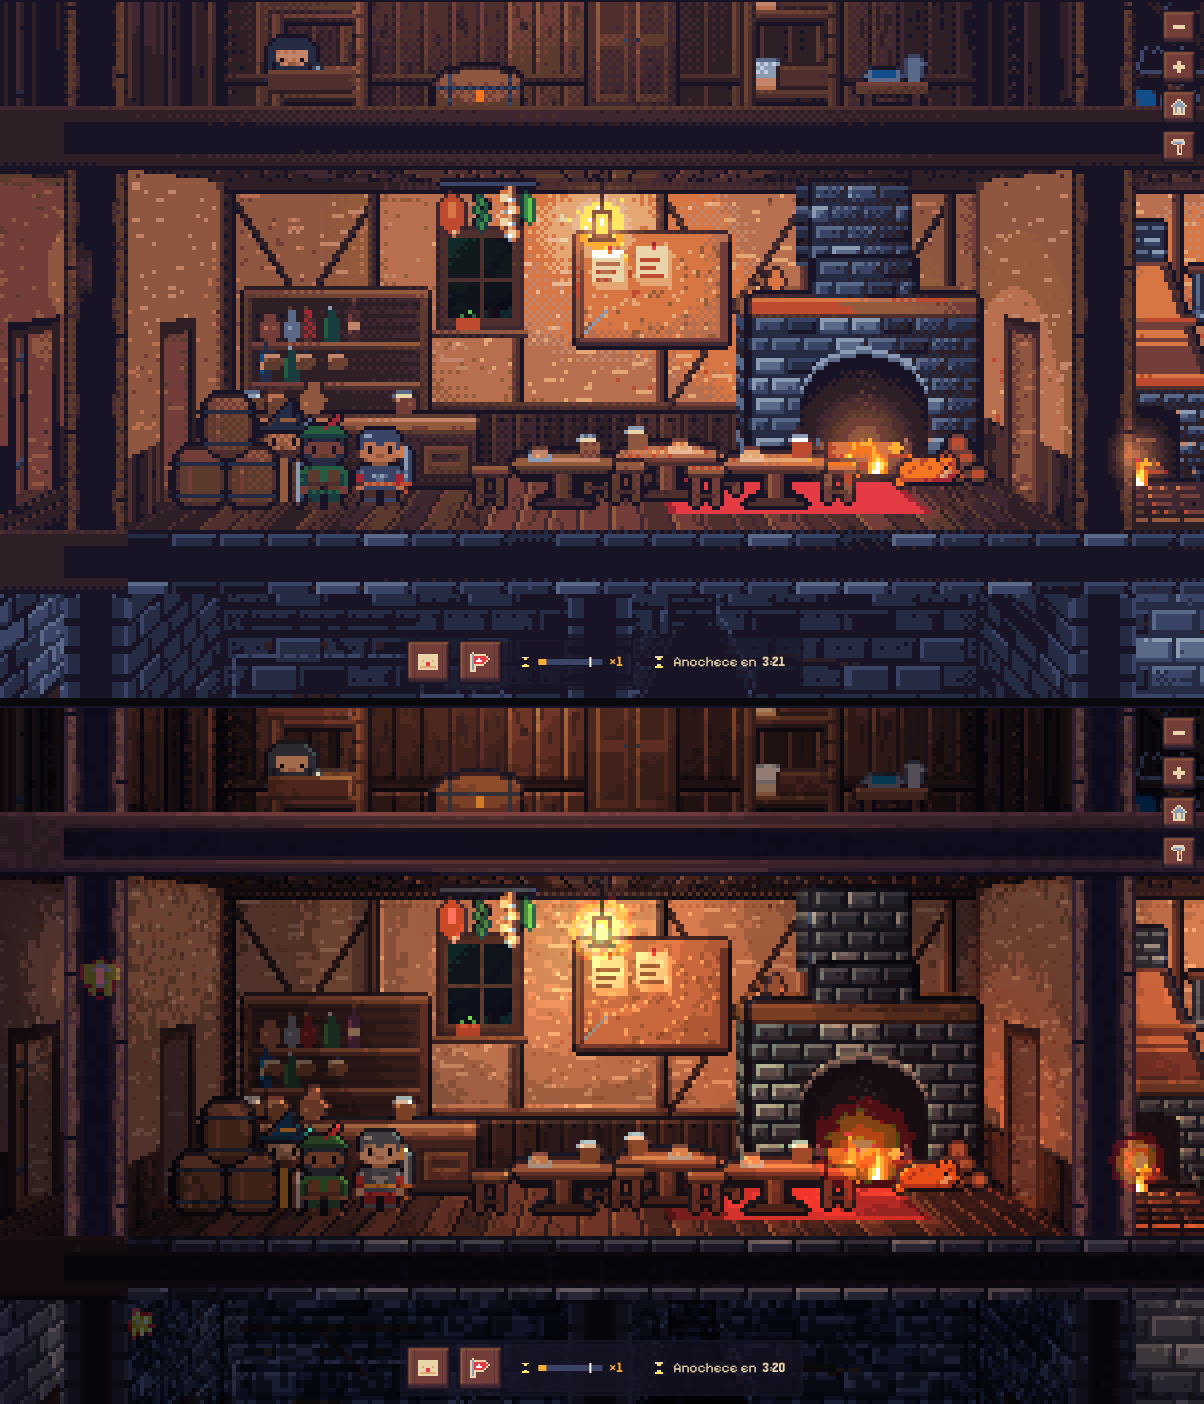
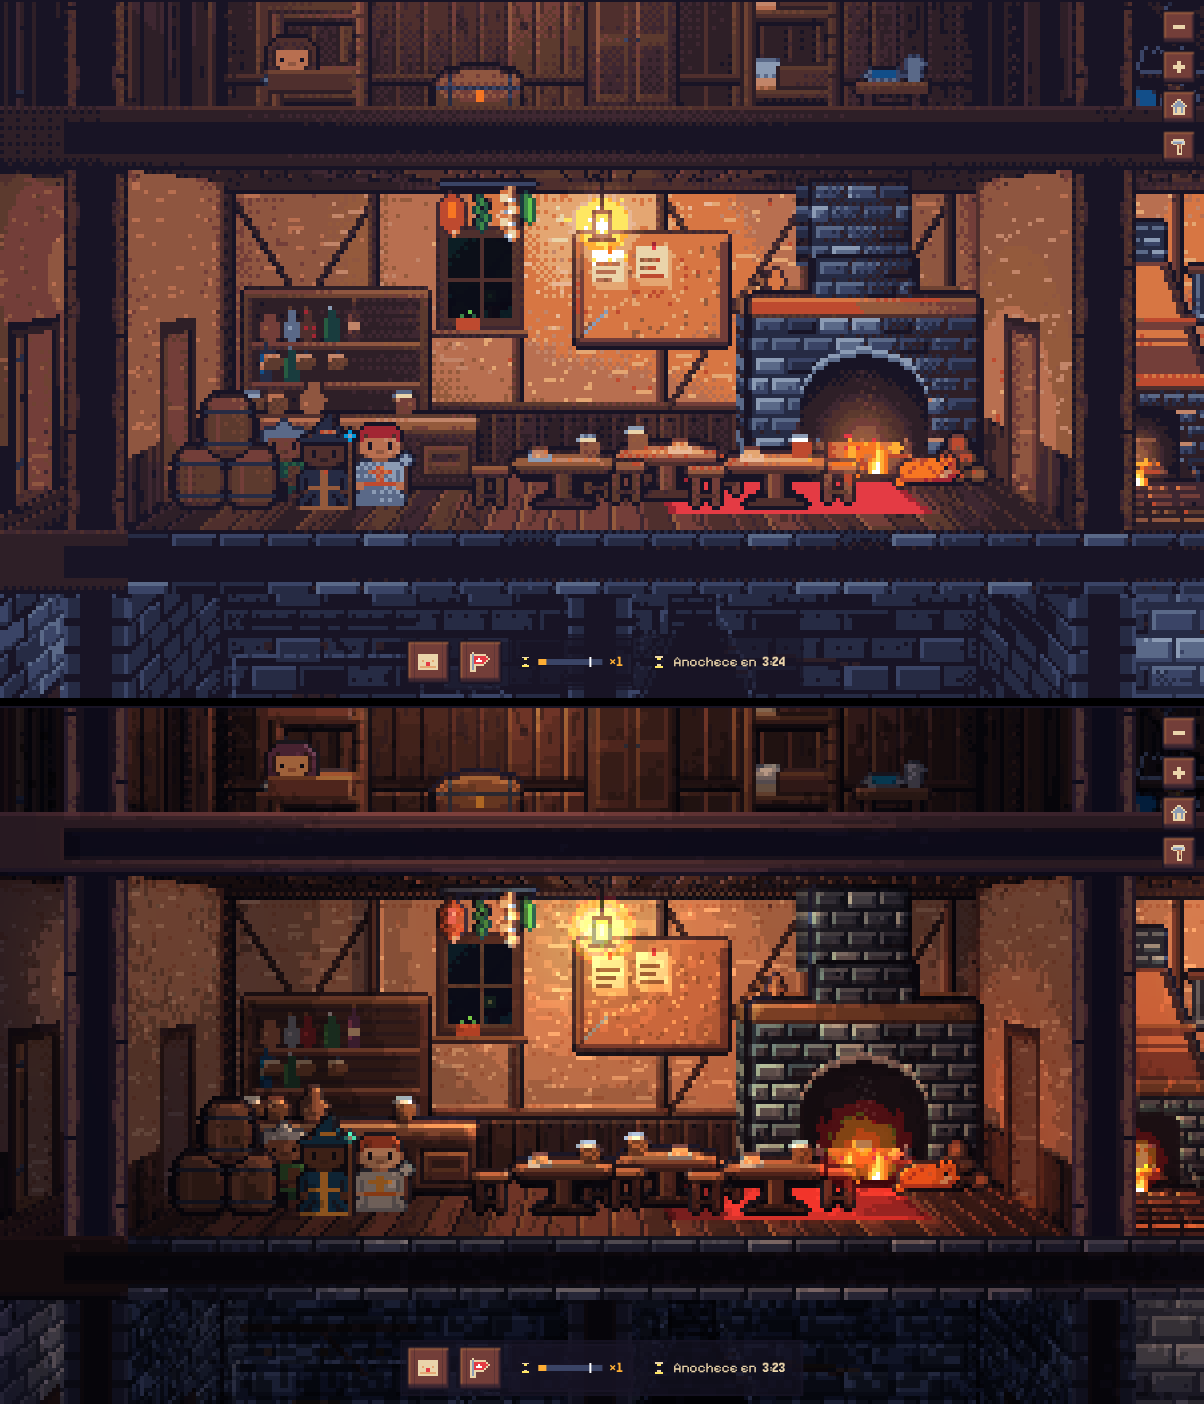
Plan de luz al día y capturas (halo, bisel y fondo nuevo)
Claude-Session: https://claude.ai/code/session_014SpyiNw8xcPCkBhD81BYzV

diff --git a/docs/plan-luz.md b/docs/plan-luz.md
@@ -53,8 +53,27 @@ siempre, abajo con el ajuste; `fachada.png`: mañana y tarde), con `tools/shots/
   focos en la gente. Y el rayo de sol en el aire (`shaft` en `gl.ts`): una lámina aditiva en
   bandas de la ventana al suelo, inclinada al contrario del sol.
 
-Lo que falta: relieve en chimeneas, rótulo, faroles y muebles (son figuras aparte); el rayo de sol
-el polvo en los rayos de sol; el fondo (fase 4); medir el rendimiento en un móvil de verdad.
+## Hecho después (PR siguiente al #119)
+
+Capturas al día en `capturas/luz-ambiente/`; `fondo.png`: de arriba abajo, sin el ajuste por la
+mañana, con él por la mañana, al ocaso y el patio.
+
+- El halo de las luces, solo en el aire de su sala: ya no se ve en los muros ni a través de ellos
+  (la zona de un foco incluye media pared de cada lado; el halo se queda dentro).
+- **Fase 3.** Relieve de bisel en todas las figuras que no lo pintan (muebles, chimeneas,
+  rótulo, faroles): `bevelRelief` en `pixel.ts`, sale de lo lejos que está cada píxel del borde y
+  hunde las líneas oscuras de dentro.
+- **Fase 4 (fondo).** `paisaje.ts` (de la prueba A): dos sierras grandes con nieve, espinazo,
+  surcos y bruma hacia el pie; la cara al sol pasa de la derecha (mañana) a la izquierda (tarde);
+  al ocaso y al alba, nieve rosa y naranja (alpenglow); de noche, siluetas con la nieve a la
+  luna. Un bosque lejano de abetos con bruma entre los montes y las colinas. El cielo en bandas de
+  borde mellado (sin trama) y las capas de delante algo apagadas por la bruma. Las capas nuevas se
+  repiten sin espejo (periódicas a lo ancho). Se pintan la primera vez que se pone el ajuste
+  (unos 150 ms).
+
+Lo que falta: el polvo en los rayos de sol; de noche, la luz de las ventanas hacia fuera (patio y
+fachada); los árboles del patio y las colinas en el estilo nuevo (siguen los de Endesga); medir
+el rendimiento en un móvil de verdad; la fase 5.
 
 ## Fases (cada una, un PR con capturas antes y después, dentro de «Luz con ambiente»)
 
